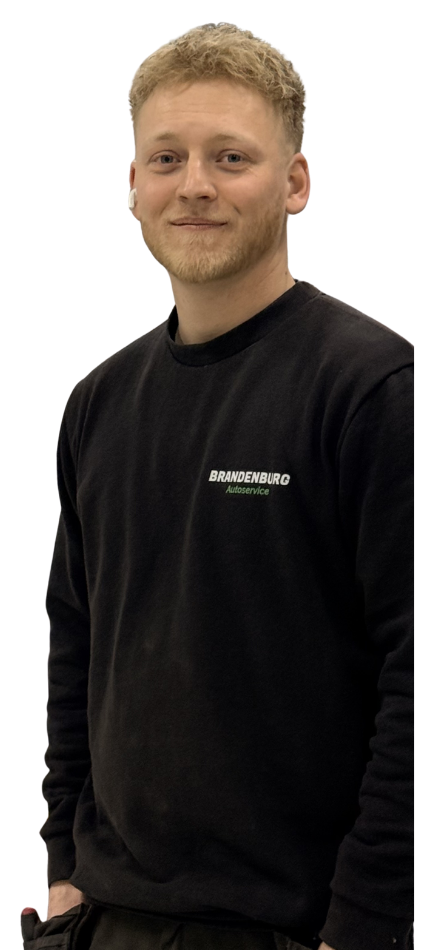
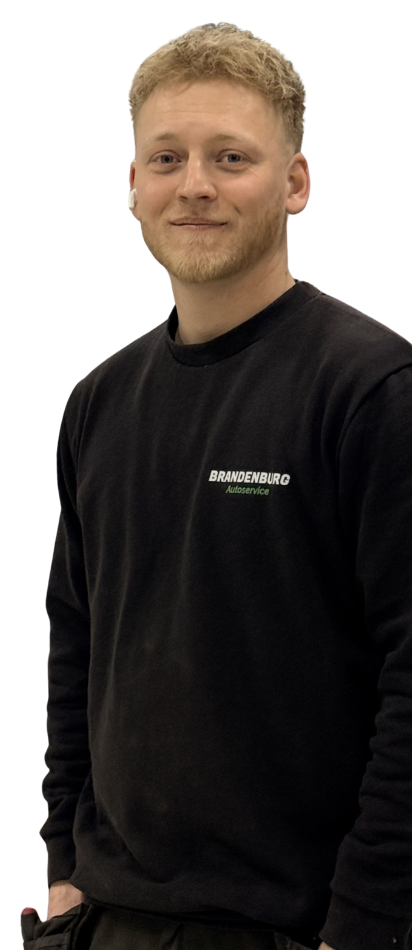
Fjern resterende luft mellem indehaverfoto og citatboks
Beskar billedet helt tæt ind på kroppen og skubbede positioneringen let ud over kanten, så skulderpartiet (som er smallere end hoften/armen) også rammer den grønne boks i stedet for kun det bredeste punkt.

diff --git a/app/globals.css b/app/globals.css
@@ -93,7 +93,7 @@ svg { fill: none; stroke: currentColor; stroke-width: 1.8; }
 .owner-photo-bg { z-index: 0; object-fit: cover; object-position: center; opacity: .5; filter: grayscale(.2); }
 .owner-photo::after { content: ""; position: absolute; z-index: 0; inset: 0; background: linear-gradient(90deg, rgba(11,13,12,.75) 0%, rgba(11,13,12,.35) 45%, rgba(11,13,12,.15) 100%); }
 .owner-grid { z-index: 1; }
-.owner-photo-cutout { z-index: 2; object-fit: contain; object-position: right bottom; }
+.owner-photo-cutout { z-index: 2; object-fit: contain; object-position: 118% bottom; }
 .owner-card { position: relative; padding: 45px; display: flex; flex-direction: column; justify-content: space-between; background: var(--green); }
 .owner-card > span { font-size: 9px; font-weight: 800; letter-spacing: .15em; }
 .owner-card blockquote { margin: 0; font-family: var(--display); font-size: clamp(2.5rem, 4vw, 4.5rem); font-weight: 900; line-height: .95; text-transform: uppercase; }
